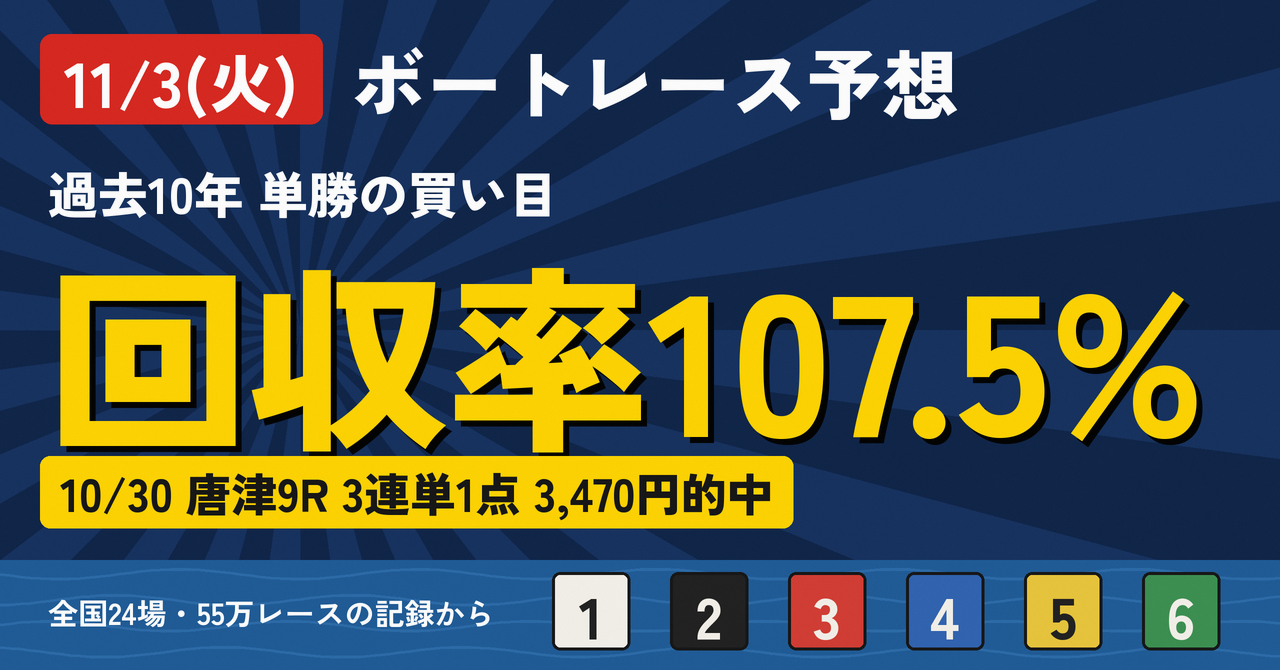
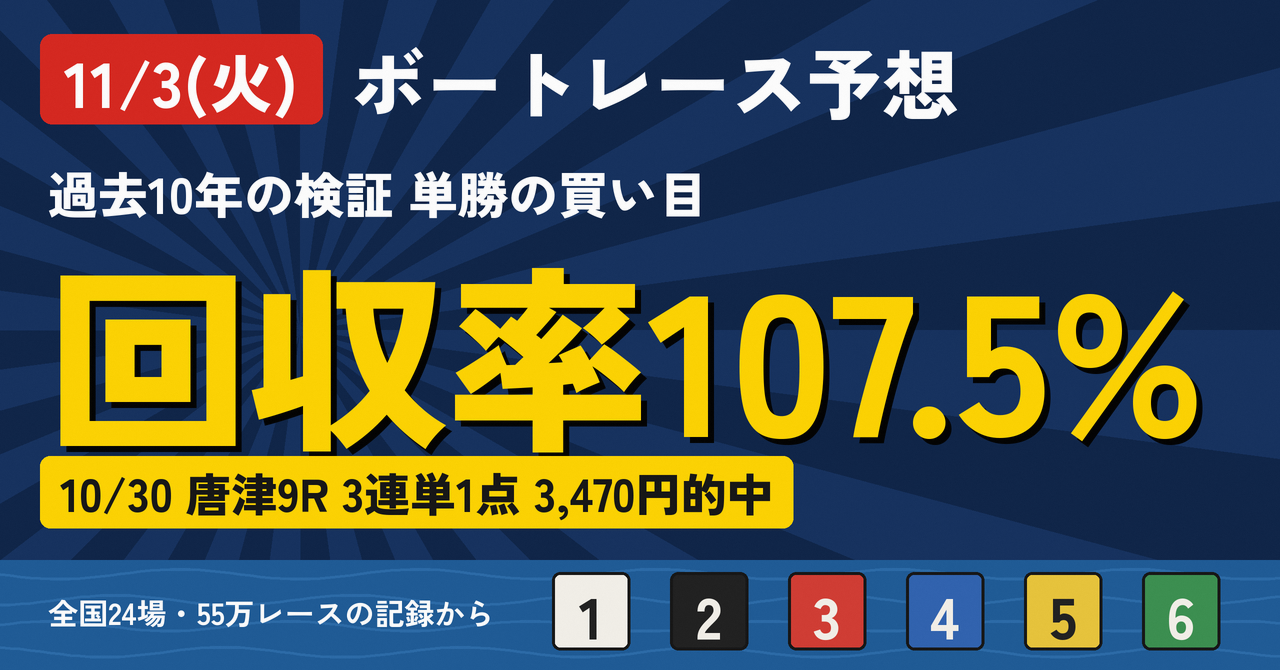
hot スタイル: 回収率が検証値だと分かる表記に
Claude-Session: https://claude.ai/code/session_0127Bh7G4KZpBH8TZD13h1MZ

Changed region(s): [[0.1875, 0.2388, 0.5625, 0.3284]]

diff --git a/note/design/make_header.py b/note/design/make_header.py
@@ -318,7 +318,7 @@ def style_hot(day, title, sub):
          fit_font(d, head, "ZenKakuGothicNew-Black.ttf", 76, W - (40 + tw + 48 + 28) - 40), white, anchor="lm")
 
     # 主役: 回収率
-    lab = "過去10年 単勝の買い目"
+    lab = "過去10年の検証 単勝の買い目"
     text(d, (48, 192), lab, font("ZenKakuGothicNew-Black.ttf", 50), white, anchor="lm")
     big = "回収率107.5%"
     fb = fit_font(d, big, "ZenKakuGothicNew-Black.ttf", 200, W - 96)
